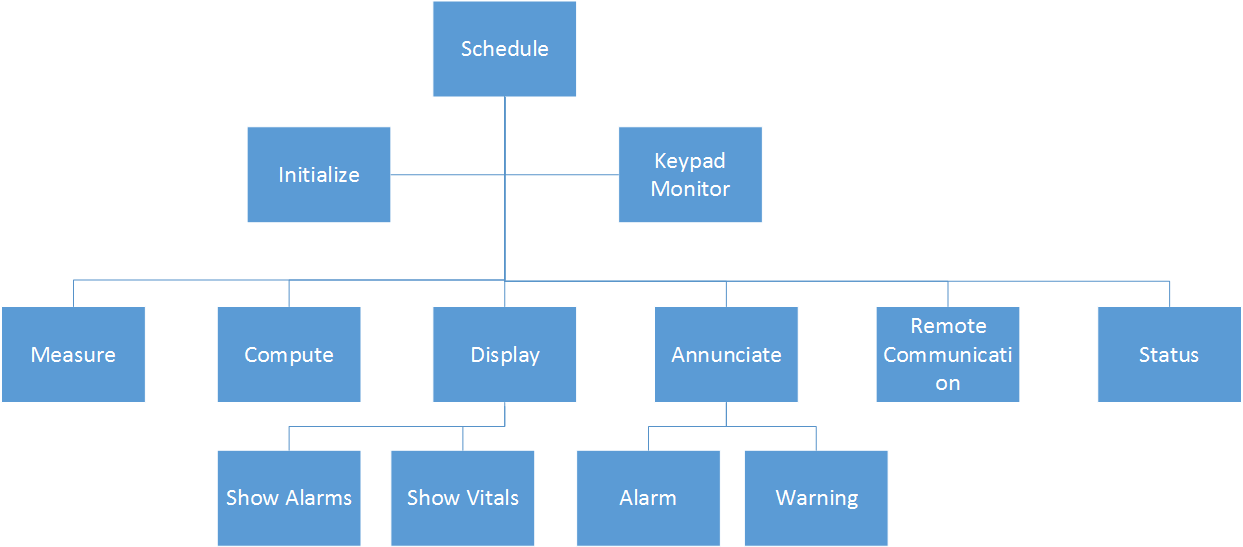
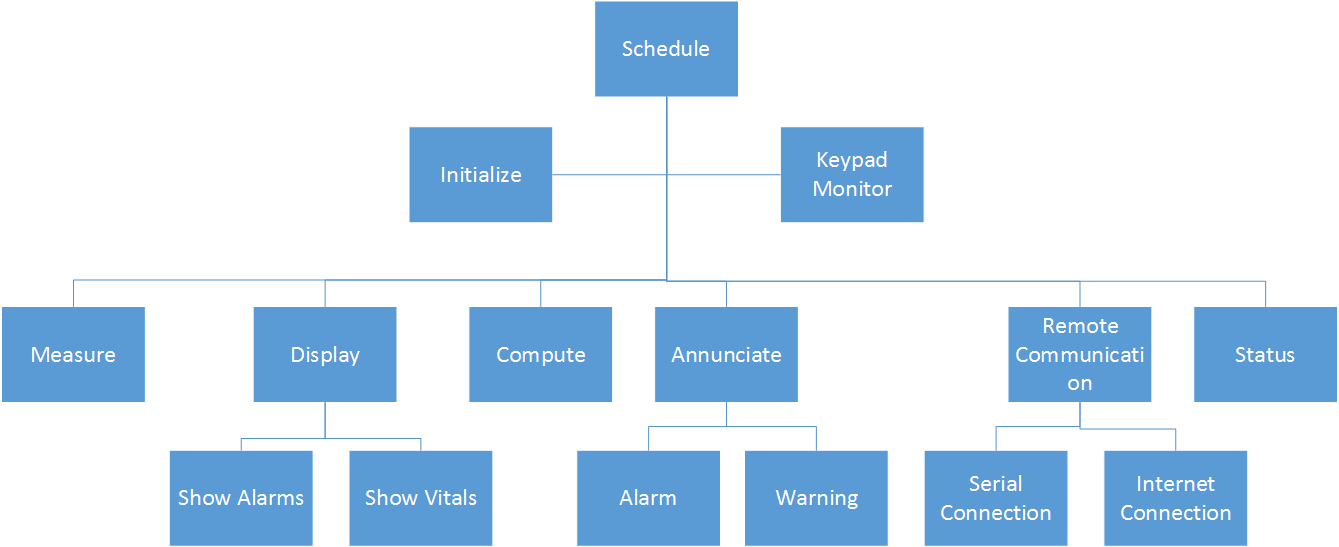
updated functional_decomposition to lab5 specs. may need to revisit

diff --git a/lab5/report/lab5_report.tex b/lab5/report/lab5_report.tex
@@ -165,6 +165,14 @@ ranges, or the user fails to comply with a prescribed logging regimen. \\
       \item Improve overall system performance
       \item Improve overall system safety
     \end{itemize}
+	\item In Phase 3, the following requirements were added:
+		\begin{itemize}
+			\item 
+		\end{itemize}<++>
+	\item In Phase 4, the following requirements were added:
+		\begin{itemize}
+			\item 
+		\end{itemize}<++>
 \end{itemize}
 
 \subsubsection{Identified Use Cases}
@@ -244,14 +252,45 @@ Possible exception conditions may include:
     terminal connection is improperly configured or initialized, data received
     may be corrupted and not display properly. The device cannot ensure a
     proper connection and it is the responsibility of the remote user to ensure
-    the correct configuration is used
-  \item \emph{Remote Connection Lost} – If the user terminates the connection
+    the correct configuration is used.
+  \item \emph{Remote Connection Lost} - If the user terminates the connection
     or the connection is lost, messages sent by the device may not arrive at
     the remote terminal or data may be corrupted. The device will not
     necessarily monitor the status of any remote connection; this
     responsibility is the remote terminals. In the event a connection is
     broken, the device system must continue to perform the other system
     functions without ill effects.
+\end{itemize}
+
+\textbf{Use Case \# 5: Remote Access via Network} \\
+This device may also be used by an individual at a location outside of normal
+doctor or medical facilties.
+
+In these cases, a medical professional may be unable to provide direct
+intervention. Instead, the patient can be monitored remotely from the device
+through the use of an Internet connection. The remote observer should interact
+with the device through a terminal just as though they were using the local
+keypad. Such interactions include starting and stopping measurements, changing
+measurement selections, and viewing recent measured values.
+
+Possible exception conditions may include:
+\begin{itemize}
+	\item \emph{Loss of Network Connection} - The nature of Internet carries the
+		possibility of an unexpected loss of connection. In these instances,
+		information sent from the device or remote terminal may become lost.
+		Various network protocols exist which address and handle these
+		issues. However, the device cannot rely on the remote terminal for
+		operation. In the event data is lost, the local system must
+		continue to operate according to the last received commands or from
+		subsequent local commands.
+	\item \emph{Corruption of Data} - In a remote setting, many environmental
+		variables may affect connection quality. Data sent to and from the device
+		may be corrupted upon reception. The system must be capable of handling
+		corrupted data. In the case of undecipherable commands, the system must
+		fail gracefully.
+	\item \emph{Improperly Formatted Command} - The remote user may send a
+		command that is unsupported by the system. In this case, the user must be
+		informed that an improper command was sent.
 \end{itemize}
 
 
